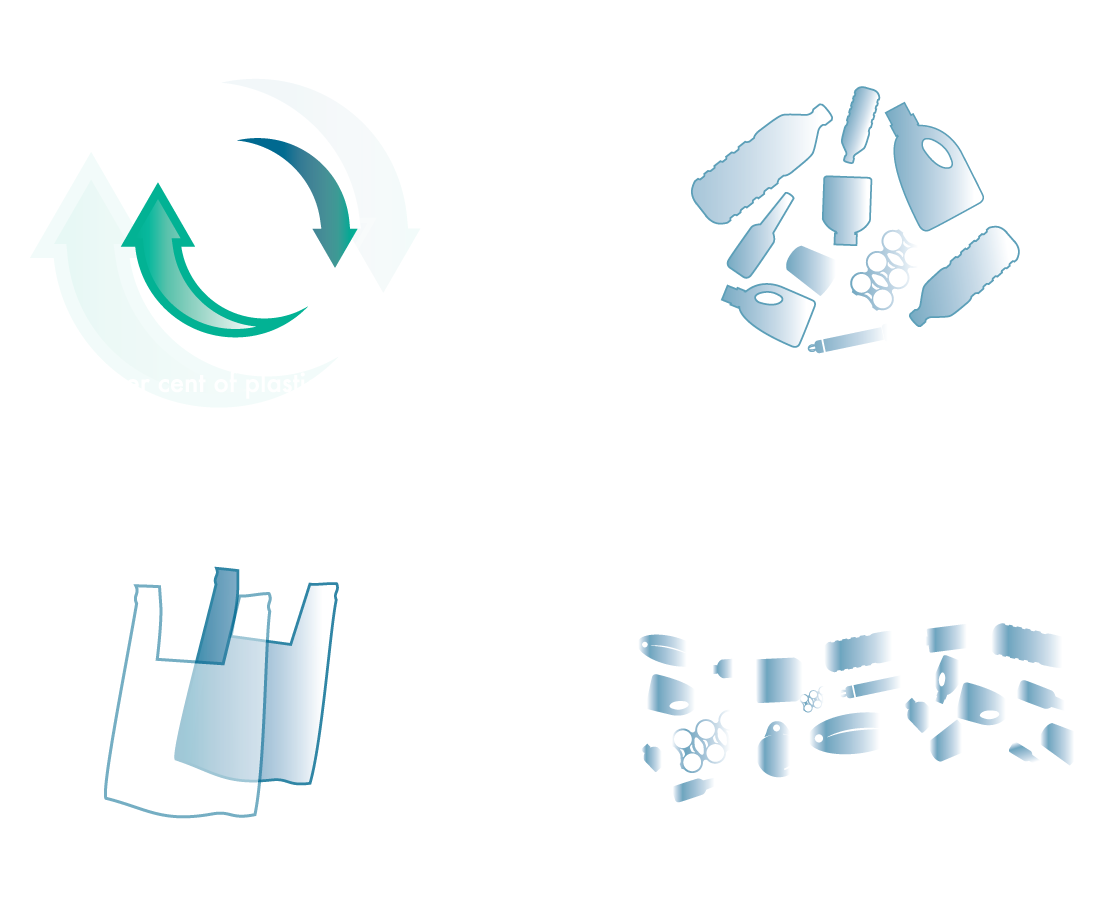
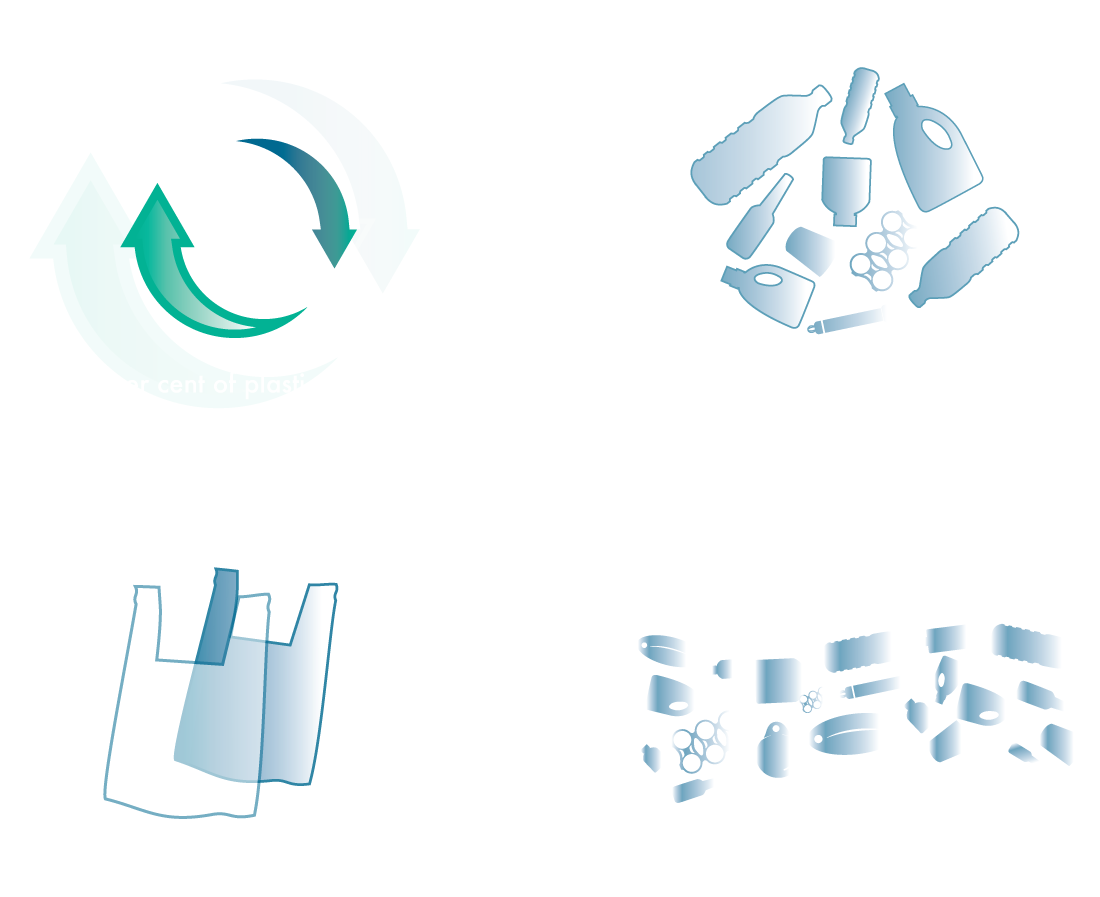
Correct image on about us issue and key features typo

diff --git a/frontend/src/modules/about/about-us.jsx b/frontend/src/modules/about/about-us.jsx
@@ -265,7 +265,7 @@ const renderSectionKeyFeaturesAndComponents = () => {
     <div className="section-container section-feature-component-container">
       <div className="ui container section-feature-component-wrapper">
         <div className="section-feature-component-text">
-          <h2 className="text-green">Key Feature & Components</h2>
+          <h2 className="text-green">Key Features & Components</h2>
           <p className="txt-emphasis text-white">
             Features of the GPML Digital Platform are made available via 3
             primary components.
